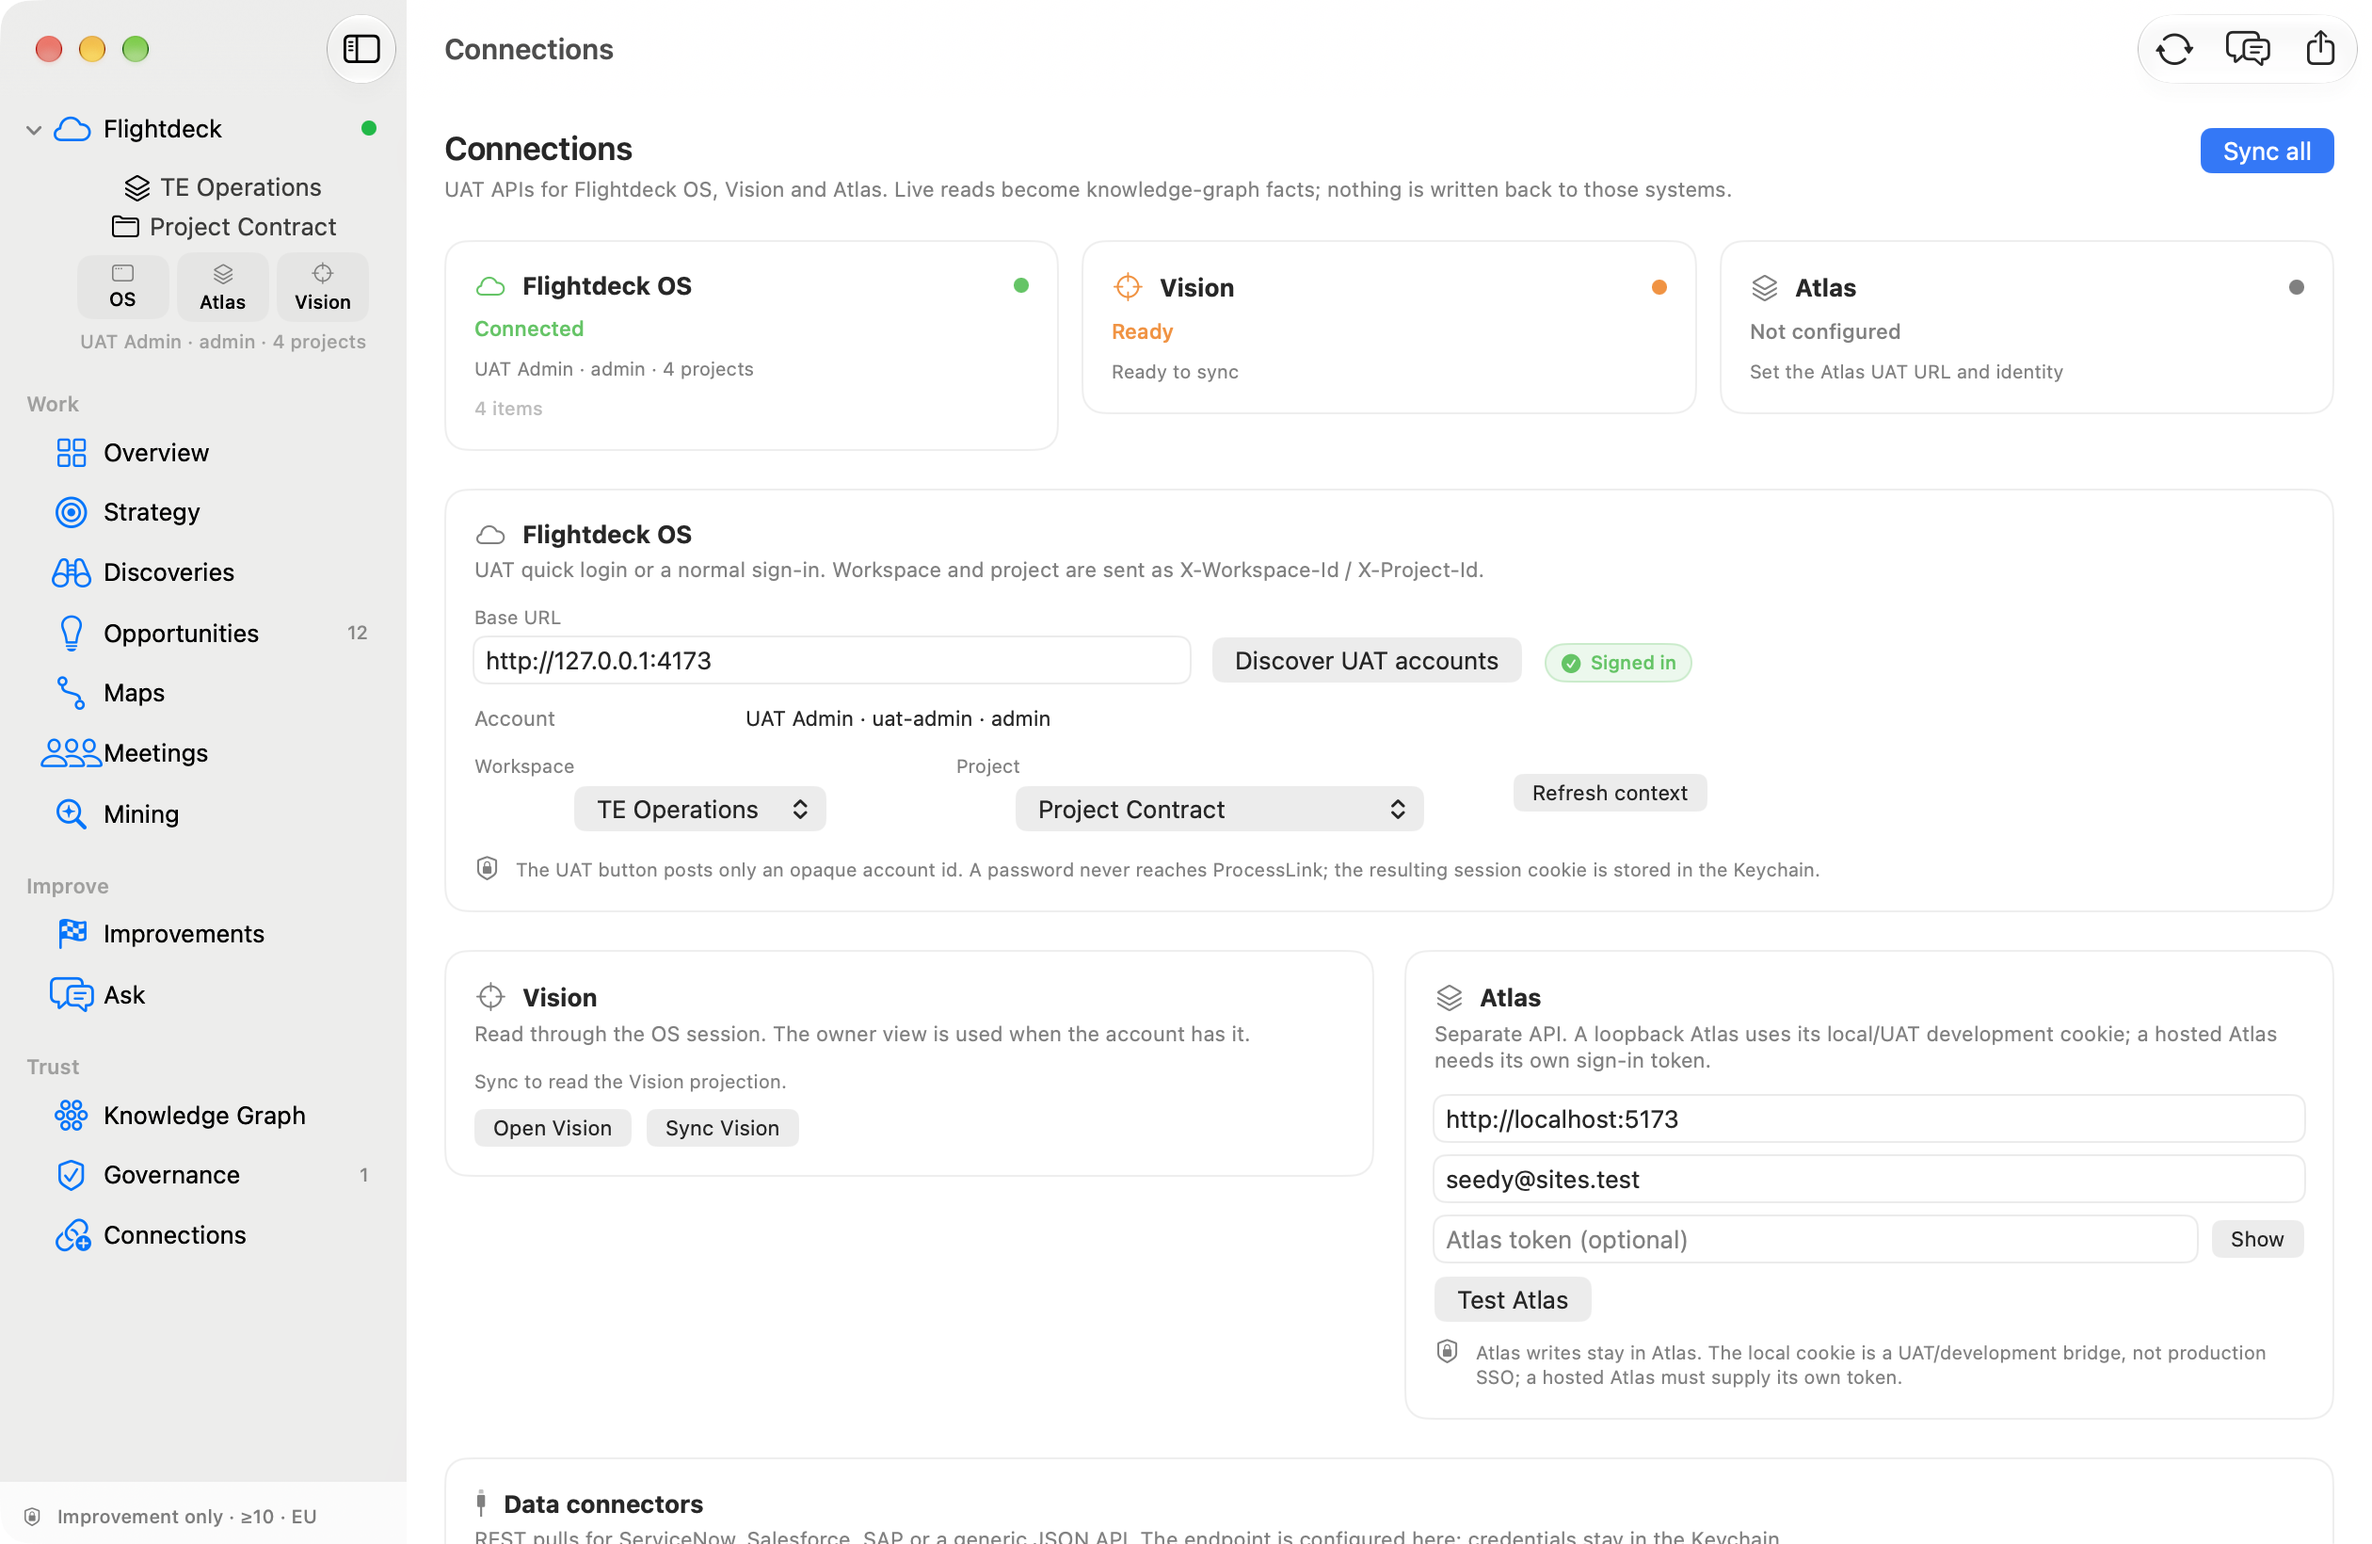
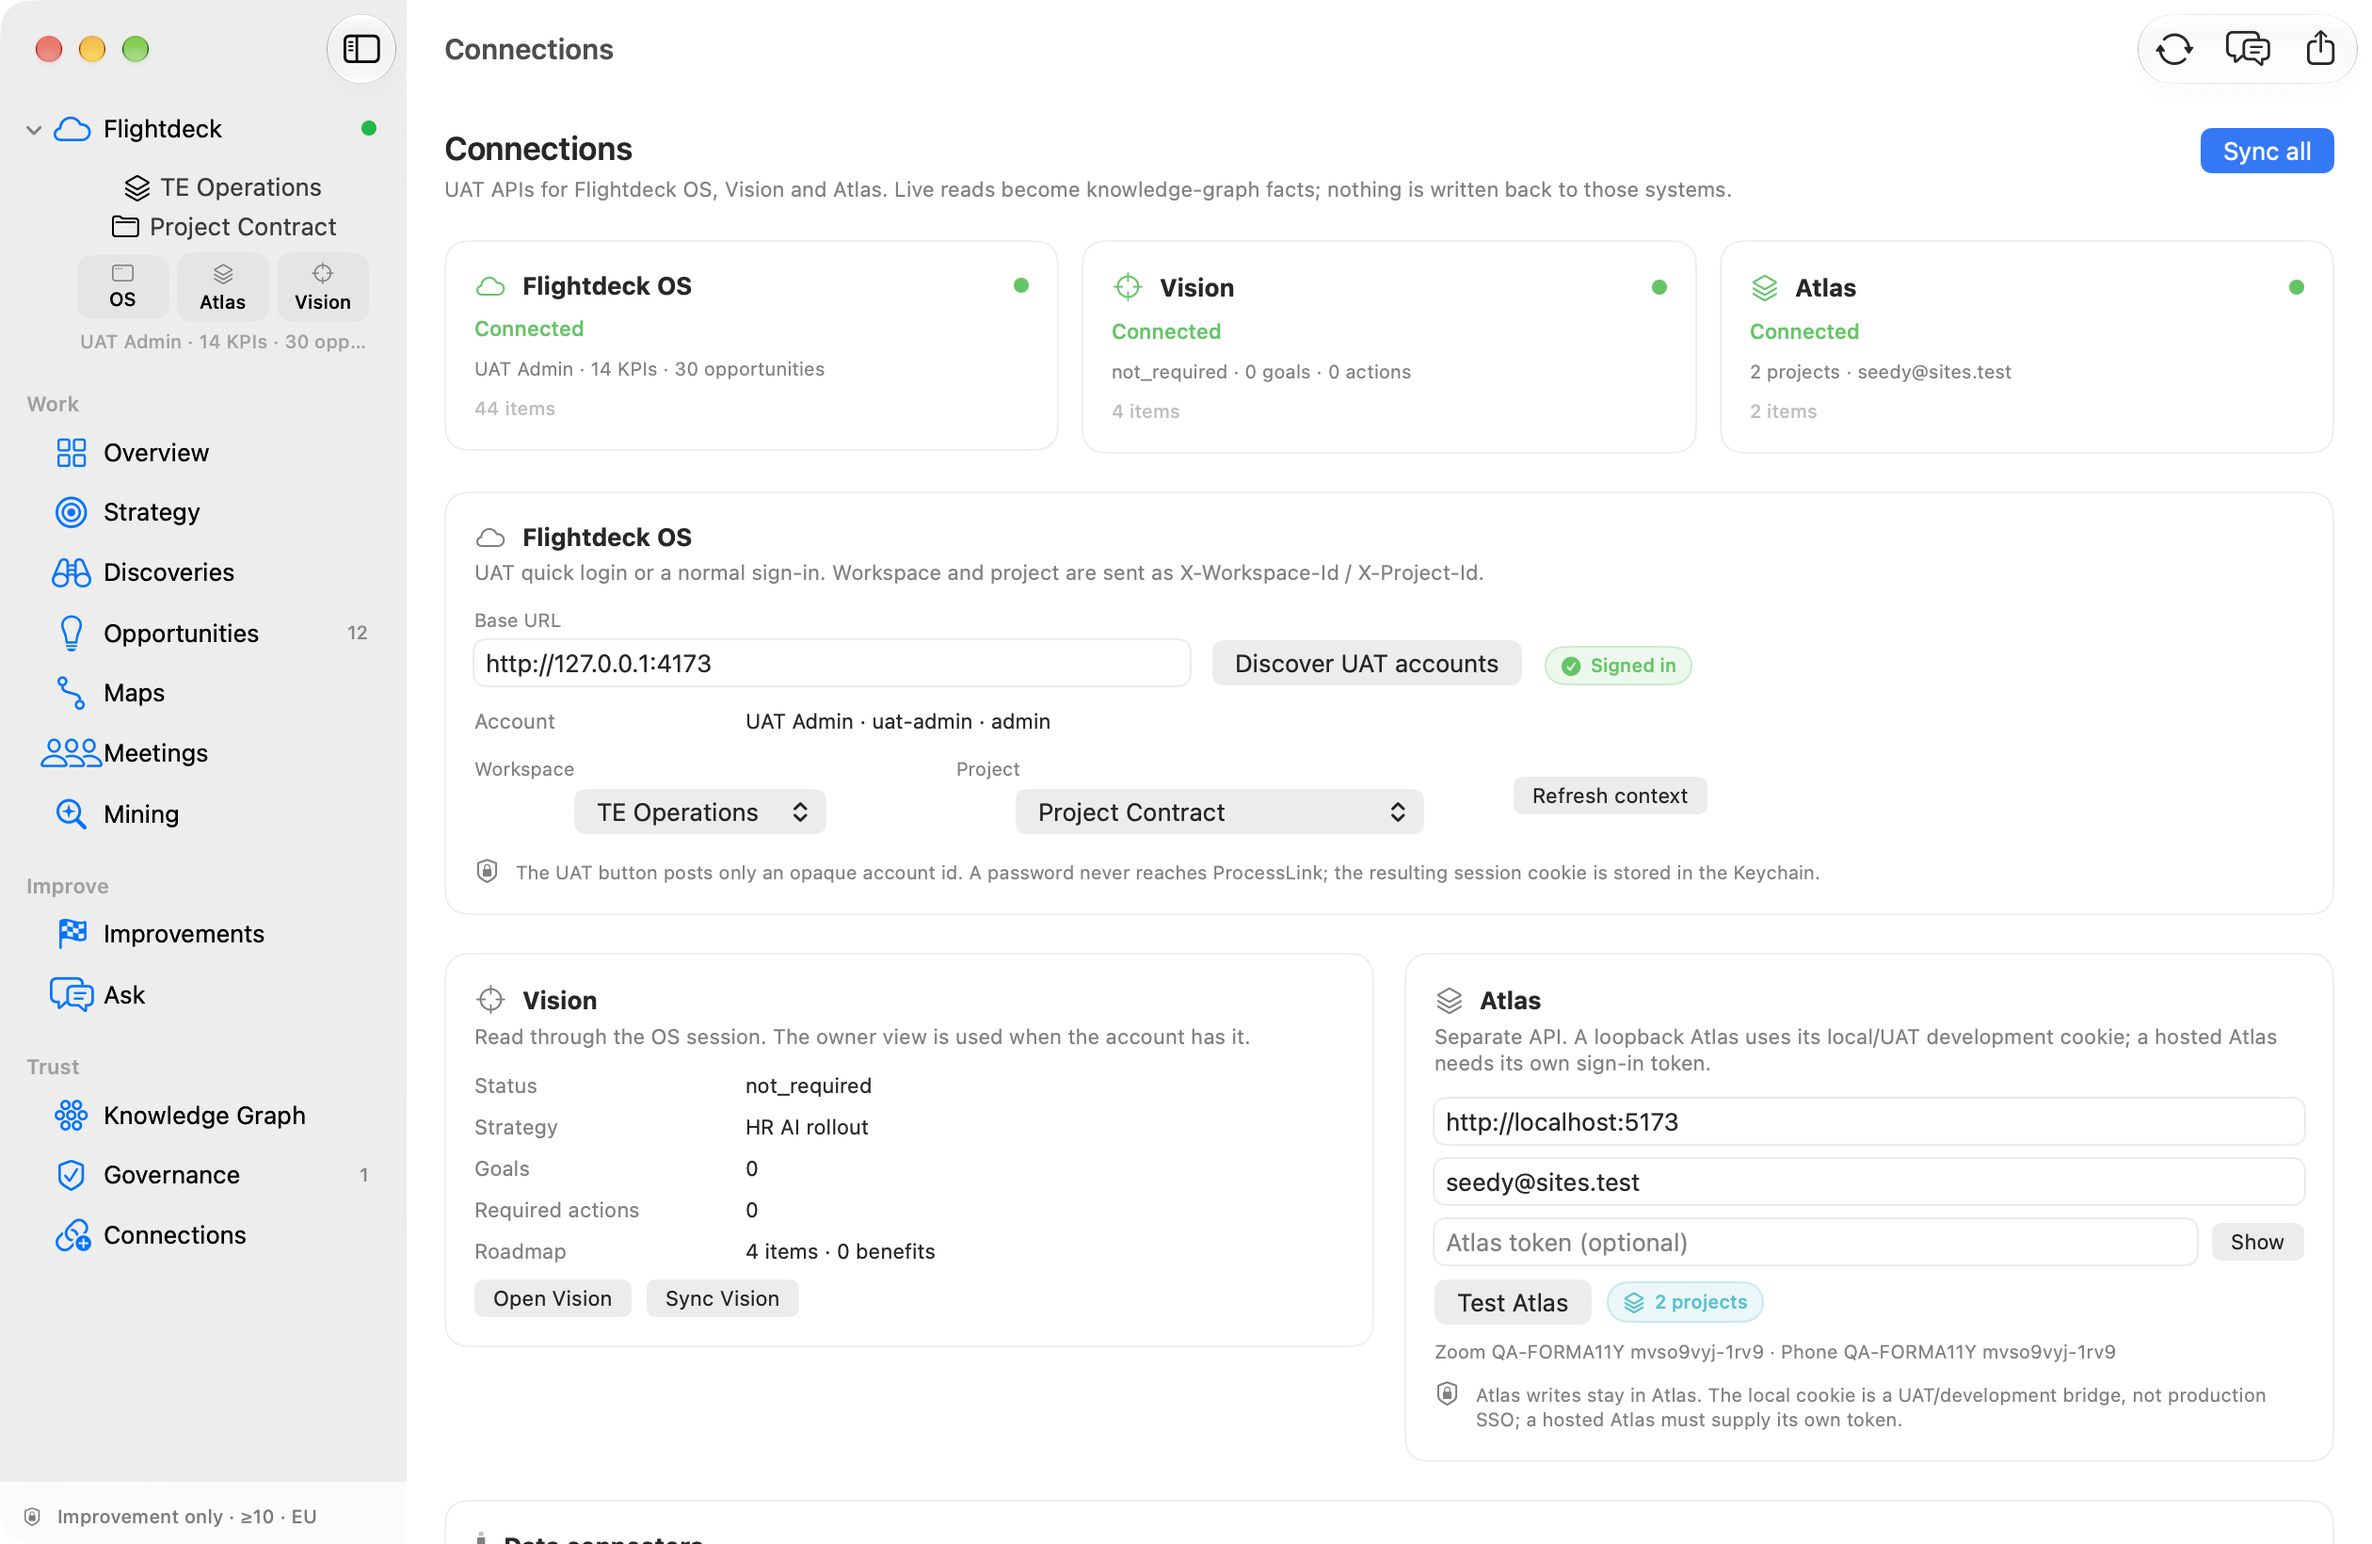
Connect Atlas through the OS context and fix loopback Atlas identity

diff --git a/macos/ProcessLink/Sources/ProcessLink/FlightdeckService.swift b/macos/ProcessLink/Sources/ProcessLink/FlightdeckService.swift
@@ -66,7 +66,9 @@ final class FlightdeckService {
 
     init() {
         baseURLString = Self.defaults.string(forKey: "fd.baseURL") ?? "http://127.0.0.1:4173"
-        atlasURLString = Self.defaults.string(forKey: "fd.atlasURL") ?? "http://localhost:5173"
+        let storedAtlasURL = Self.defaults.string(forKey: "fd.atlasURL")
+        atlasURLString = (storedAtlasURL == "http://localhost:5174" ? "http://localhost:5173" : storedAtlasURL)
+            ?? "http://localhost:5173"
         atlasEmail = Self.defaults.string(forKey: "fd.atlasEmail") ?? ""
         workspaceID = Self.defaults.string(forKey: "fd.workspace") ?? ""
         projectID = Self.defaults.string(forKey: "fd.project") ?? ""
@@ -208,11 +210,6 @@ final class FlightdeckService {
     }
 
     func testAtlas() async {
-        guard !atlasEmail.trimmingCharacters(in: .whitespaces).isEmpty else {
-            errorMessage = FlightdeckError.atlasIdentityRequired.localizedDescription
-            updateHealth("atlas", state: .error, detail: "Set the Atlas UAT identity e-mail", count: 0)
-            return
-        }
         busy = true
         errorMessage = nil
         defer { busy = false }
@@ -258,7 +255,7 @@ final class FlightdeckService {
                                   count: advantage.kpis.count + advantage.opportunities.count)
             }
 
-            if !self.atlasEmail.trimmingCharacters(in: .whitespaces).isEmpty {
+            if !self.atlasURLString.trimmingCharacters(in: .whitespaces).isEmpty {
                 do {
                     let atlas = try await value.atlas(email: self.atlasEmail, token: self.atlasToken)
                     self.lastAtlas = atlas

diff --git a/macos/ProcessLink/Sources/ProcessLink/UI/Pages/ConnectionsPage.swift b/macos/ProcessLink/Sources/ProcessLink/UI/Pages/ConnectionsPage.swift
@@ -69,7 +69,7 @@ struct ConnectionsPage: View {
                     }
                     if fd.principal != nil {
                         await fd.sync(into: model)
-                        if !fd.atlasEmail.isEmpty { await fd.testAtlas() }
+                        await fd.testAtlas()
                     }
                 }
             }
@@ -296,7 +296,7 @@ private struct AtlasConnectionCard: View {
             VStack(alignment: .leading, spacing: Space.sm) {
                 TextField("Atlas URL", text: $fd.atlasURLString)
                     .textFieldStyle(.roundedBorder)
-                TextField("Atlas UAT e-mail", text: $fd.atlasEmail)
+                TextField("Atlas UAT e-mail (optional on loopback)", text: $fd.atlasEmail)
                     .textFieldStyle(.roundedBorder)
                 HStack(spacing: Space.sm) {
                     if showToken {
@@ -316,7 +316,7 @@ private struct AtlasConnectionCard: View {
                         Task { await fd.testAtlas() }
                     }
                     .buttonStyle(.bordered)
-                    .disabled(fd.atlasEmail.isEmpty || fd.busy)
+                    .disabled(fd.busy)
                     if let atlas = fd.lastAtlas {
                         Chip(text: "\(atlas.projects.count) projects", symbol: "square.stack.3d.up", tint: .teal)
                     }

diff --git a/macos/ProcessLink/Sources/ProcessLinkKit/FlightdeckClient.swift b/macos/ProcessLink/Sources/ProcessLinkKit/FlightdeckClient.swift
@@ -419,7 +419,8 @@ public actor FlightdeckClient {
     /// sign-in token and is reported as unavailable rather than guessed.
     public func atlas(email: String, token: String? = nil) async throws -> AtlasSnapshot {
         guard let atlasURL else { throw FlightdeckError.notConfigured("Set an Atlas URL first.") }
-        guard !email.trimmingCharacters(in: .whitespacesAndNewlines).isEmpty else {
+        let trimmedEmail = email.trimmingCharacters(in: .whitespacesAndNewlines)
+        if trimmedEmail.isEmpty && (token?.isEmpty ?? true) && !isLoopback(atlasURL) {
             throw FlightdeckError.atlasIdentityRequired
         }
         var headers = ["Accept": "application/json"]
@@ -444,7 +445,7 @@ public actor FlightdeckClient {
                                 status: item["status"] as? String ?? "active")
         }
         return AtlasSnapshot(workspaceID: "", workspaceName: "Atlas", projects: projects,
-                             localIdentity: access["email"] as? String ?? email)
+                             localIdentity: access["email"] as? String ?? trimmedEmail)
     }
 
     // MARK: HTTP

diff --git a/docs/CONNECTIONS.md b/docs/CONNECTIONS.md
@@ -16,6 +16,7 @@ Run on 2026-10-28 against the local UAT stack:
 | Advantage | `/api/apps/advantage/process-kpis`, `/opportunities` | 14 KPIs and 30 opportunities read; 44 graph facts written |
 | Vision | `/api/project-vision`, `/api/vision/bootstrap` | projection `not_required`, strategy “HR AI rollout”, 4 roadmap items; owner view available to `uat-admin` |
 | Atlas | `http://localhost:5173` | local UAT super-admin; 2 projects read; 3 graph facts written |
+| Atlas ↔ OS | OS `:5174` → Atlas `:5173`; Atlas `/api/flightdeck/context` | Atlas reads OS `te-ops` and its 4 projects with the inbound `read:context` credential |
 
 The live client test is in
 `Tests/ProcessLinkKitTests/ProcessLinkKitTests.swift` and only runs when
@@ -65,6 +66,20 @@ cookie only to `localhost`/`127.0.0.1`. A **hosted Atlas** sits behind its own
 hosting dispatcher and needs a gateway sign-in token; set the optional token in
 the Atlas card. Atlas SSO with Flightdeck is not implemented by Atlas yet, so
 this is deliberately a UAT bridge, not production SSO.
+
+**Atlas ↔ OS.** Atlas is launched from the repo
+`https://github.com/pallefar/flightdeck-atlas`. Its server-side `.env.local`
+points at the OS (`ATLAS_FLIGHTDECK_URL=http://127.0.0.1:4173`) and holds a
+minted inbound credential with `read:context` (and `submit:proposal` for
+onboarding). The OS shell's **Atlas** link is configured for `:5174`; a
+loopback bridge from `:5174` to Atlas's dev server on `:5173` keeps that link
+live while the Atlas local sign-in plugin insists on a loopback peer. The
+verified context response contains workspace `te-ops` and projects
+`general`, `cockpits`, `dtp-image-test-2026-10-07` and `project-contract`.
+
+Atlas SSO with Flightdeck is still pending in Atlas itself; the local identity
+is `seedy@sites.test`. ProcessLink requires no Atlas e-mail on loopback — it
+uses the local development cookie and reads the identity Atlas returns.
 
 Atlas's e-mail is kept out of the knowledge graph. The Atlas workspace node is
 named “Atlas workspace”; only the local connection card shows the e-mail for

diff --git a/docs/RELEASING.md b/docs/RELEASING.md
@@ -11,7 +11,7 @@ A GitHub Release carries both desktop installers:
 
 The workflow is [`.github/workflows/release.yml`](../.github/workflows/release.yml).
 
-The current release, [v0.1.9](https://github.com/pallefar/ProcessLink/releases/tag/v0.1.9),
+The current release, [v0.1.10](https://github.com/pallefar/ProcessLink/releases/tag/v0.1.10),
 was published with the macOS DMG and a locally cross-built Windows NSIS
 installer because GitHub Actions is currently locked on the account with a
 billing error. The workflow is ready to add the MSI and a CI-built NSIS
@@ -23,8 +23,8 @@ installer once Actions is available.
 git remote add origin git@github.com:<owner>/<repo>.git   # once
 git push -u origin main
 
-git tag v0.1.9
-git push origin v0.1.9
+git tag v0.1.10
+git push origin v0.1.10
 ```
 
 The tag starts the workflow. It builds macOS and Windows in parallel, mounts
@@ -70,12 +70,12 @@ certificate to the Windows runner before calling the build signed.
 
 ```bash
 # macOS universal DMG (ad-hoc unless SIGN_IDENTITY is set)
-macos/ProcessLink/tools/package.sh --version 0.1.9
+macos/ProcessLink/tools/package.sh --version 0.1.10
 
 # macOS notarized
 SIGN_IDENTITY="Developer ID Application: …" \
 APPLE_ID=… APPLE_TEAM_ID=… APPLE_APP_SPECIFIC_PASSWORD=… \
-macos/ProcessLink/tools/package.sh --version 0.1.9 --notarize
+macos/ProcessLink/tools/package.sh --version 0.1.10 --notarize
 
 # Windows, on a Windows host
 npm ci --prefix web

diff --git a/README.md b/README.md
@@ -234,12 +234,12 @@ app and in [`docs/PHASE-0-DISCOVERY.md`](docs/PHASE-0-DISCOVERY.md).
 Tag a version and GitHub Actions builds both desktop installers:
 
 ```bash
-git tag v0.1.9 && git push origin v0.1.9
+git tag v0.1.10 && git push origin v0.1.10
 ```
 
 The release contains a universal macOS DMG (`arm64` + `x86_64`), a Windows
 NSIS setup (and an MSI from the Windows CI job), and `SHA256SUMS.txt`.
-[Download v0.1.9](https://github.com/pallefar/ProcessLink/releases/tag/v0.1.9).
+[Download v0.1.10](https://github.com/pallefar/ProcessLink/releases/tag/v0.1.10).
 Local packaging, signing and the current Actions billing note are in
 [`docs/RELEASING.md`](docs/RELEASING.md).
 
